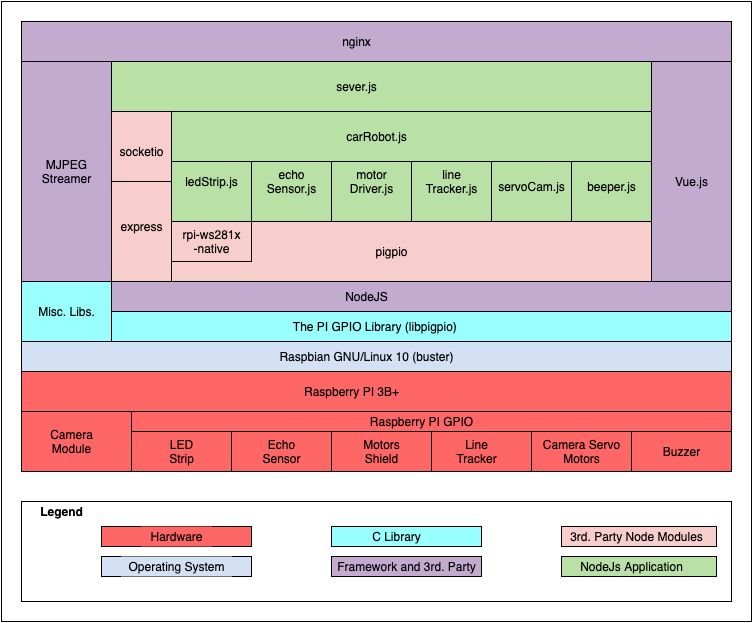
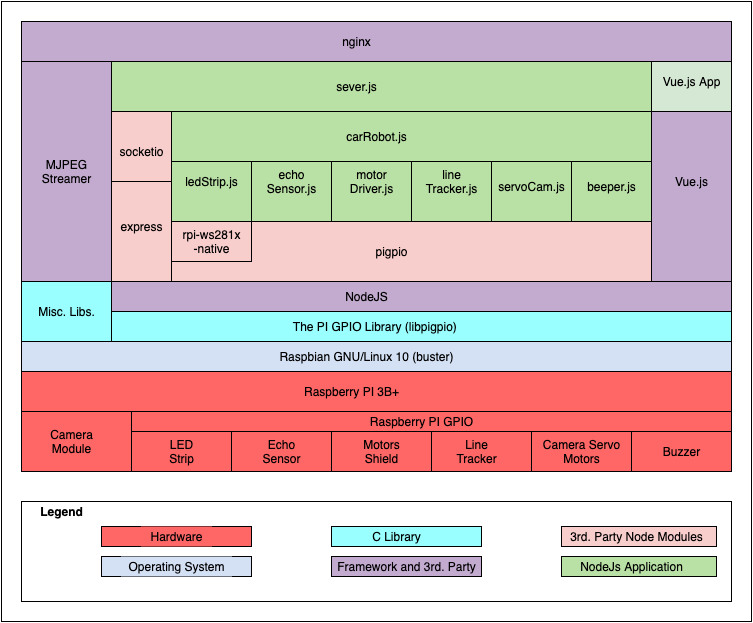
Updated README.md

Changed region(s): [[0.8552, 0.0915, 0.9774, 0.183]]

diff --git a/README.md b/README.md
@@ -1,30 +1,62 @@
 # PI-ROBOT-CAT
 
+![Credit: UCTRONICS](./assets/UCTRONICS-Robot-Car.jpg "UCTRONICS")
+
+Credit: [UCTRONICS](https://www.uctronics.com/)
+
+The purpose of this project is to replace the C++ UCTRONICS Raspberry PI Robot Car server that controls the hardware by a [Node.js](https://nodejs.org/en/) version.
+
+The requirements are:
+
+* All original features are functional (except bluetooth remote control).
+* Control over the internet using secure connection is possible.
+* Open source, of course.
+* Focus is on the server running on Node.js (Although a basic Vue.js UI is provided for demostration purposes).
+* Compatibility with UCTRONICS mobile app is not required.
+
+## Required materials
+
+* [UCTRONICS Robot Car Kit for Raspberry Pi](https://amzn.to/3dhvFIv)
+* [Raspberry PI 3B+](https://amzn.to/3nvSb5i)
+* [microSDHC Card](https://amzn.to/2SAb0G4)
+
 ## Block Diagram
 
 ![Block diagram](./assets/BlockDiagram.png "Block diagram")
 
+Block diagram
+
 ## MJPEG Streamer
 
-Setup Guide: Raspberry Pi | MJPEG Streamer Install & Setup & FFMpeg Recording <https://github.com/cncjs/cncjs/wiki/Setup-Guide:-Raspberry-Pi-%7C-MJPEG-Streamer-Install-&-Setup-&-FFMpeg-Recording>
+The MJPEG streamer project is used to stream the camera module video feed. Follow the complete instructions in the following link.
 
-## Get a domain name (DuckDNS <https://www.duckdns.org/>)
+[MJPEG-Streamer Install & Setup](<https://github.com/cncjs/cncjs/wiki/Setup-Guide:-Raspberry-Pi-%7C-MJPEG-Streamer-Install-&-Setup-&-FFMpeg-Recording>)
 
-### Forward ports 80 and 443 to your raspberry pi address
+## Get a domain name
 
-## Get an SSL certificate from LetsEncrypt
+In order to access the Robot Car application from the internet get a domain name. [DuckDNS](https://www.duckdns.org) will provide a duckdns subdomain resolving to your Internet Service Provider IP address.
 
-The instructions below are from certbot.eff.org <https://certbot.eff.org/lets-encrypt/debianbuster-nginx>
+### Set up the port forwarding on your home routes
+
+Once the domain name resolves to your home router external IP address, the router needs to forward traffic on ports 80 and 443 to your Raspberry Pi ip address. The instructions depends on your router. Information, very likely, is available by search for "port forwarding [your router brand and model]"
+
+## NGINX installation
+
+In this project we are using [NGINX](https://www.nginx.com/resources/wiki/) as web server and reverse proxy.
+
+### Get an SSL certificate from LetsEncrypt
+
+We need a valid certificate to establish a secure connection to the server running on the Raspberry PI.
 
 ### Install certbot
+
+The instructions below are from [certbot.eff.org](<https://certbot.eff.org/lets-encrypt/debianbuster-nginx>)
 
 ````bash
     sudo apt-get install certbot python-certbot-nginx
 ````
 
-## NGINX installation
-
-### If needed remove apache if installed to avoid port conflicts
+### Continue NGINX installation by removing apache if installed to avoid port conflicts
 
 ````bash
     sudo apt-get remove apache2
@@ -87,13 +119,21 @@ Make the site enabled
 
 To obtain a new or tweaked version of this certificate in the future, simply run certbot again with the "certonly" option. To non-interactively renew *all* of your certificates, run "certbot renew"
 
-## Project setup
+## Setup, and run the server and web application
+
+### Clone this repository
+
+````bash
+    git clone git@github.com:wdmartins/pi-robot-car.git
+````
+
+### Install project dependencies
 
 ````bash
     npm install
 ````
 
-## Start backend server
+### Start backend server
 
 ````bash
     npm start
@@ -101,16 +141,22 @@ To obtain a new or tweaked version of this certificate in the future, simply run
 
 ### Compiles and hot-reloads for development
 
+Use this option for development purposes. Using this option Vue.js starts hot-reload server and you can access it by poiting your browser to the address shown on the screen after compilation finished. Keep in mind when running in this mode NGINX is use only as reverse proxy for the application to established as websocket connection to the back end server.
+
 ````bash
     npm run serve
 ````
 
 ### Compiles and minifies for production
 
+Use this option for production purposes. Using this option NGINX works as secure webserver and the application can be accessed from the internet by pointing your borser to https://[your duckdns address]
+
 ````bash
     npm run build
     ./setup.sh
 ````
+
+## Vue.js further tips
 
 ### Lints and fixes files
 
